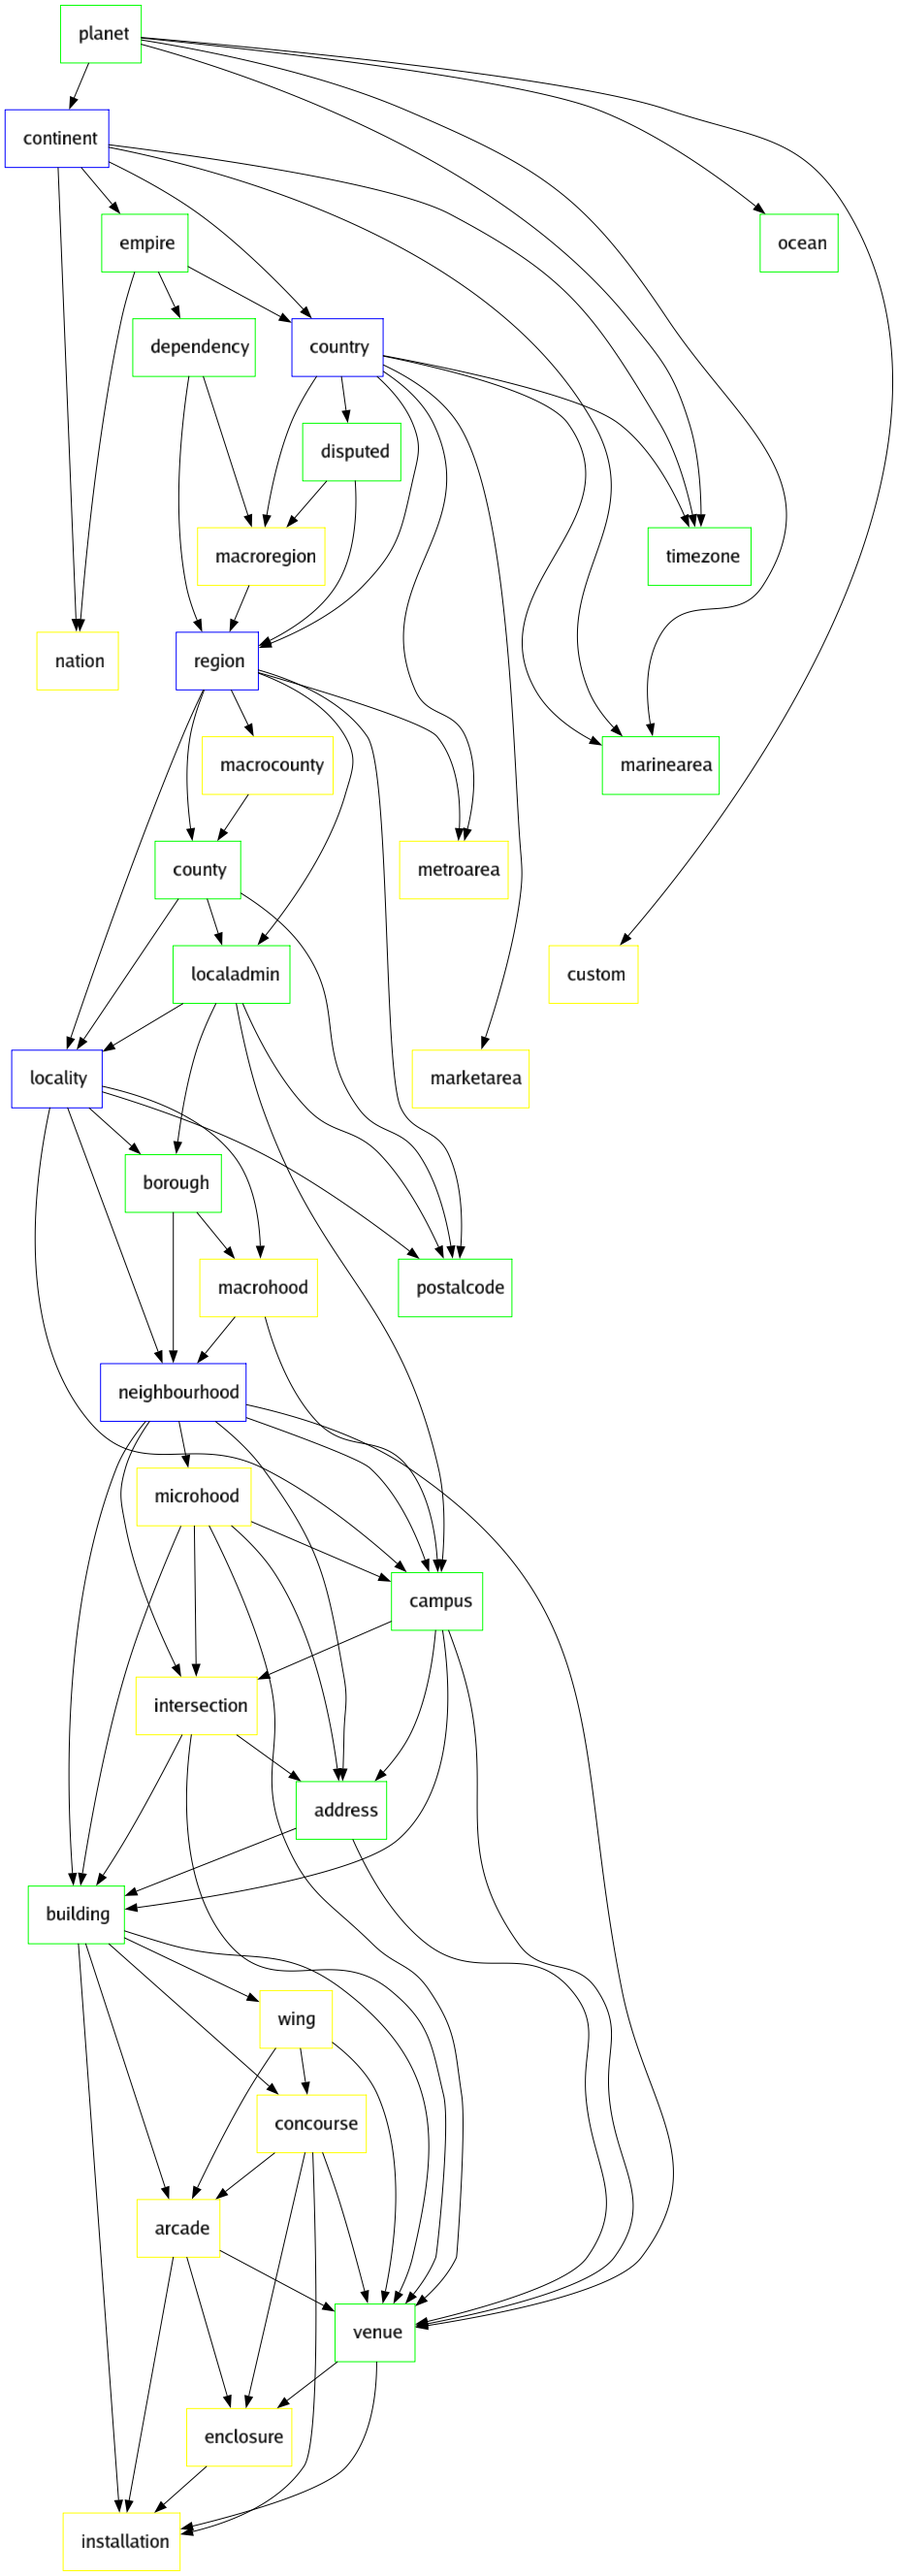
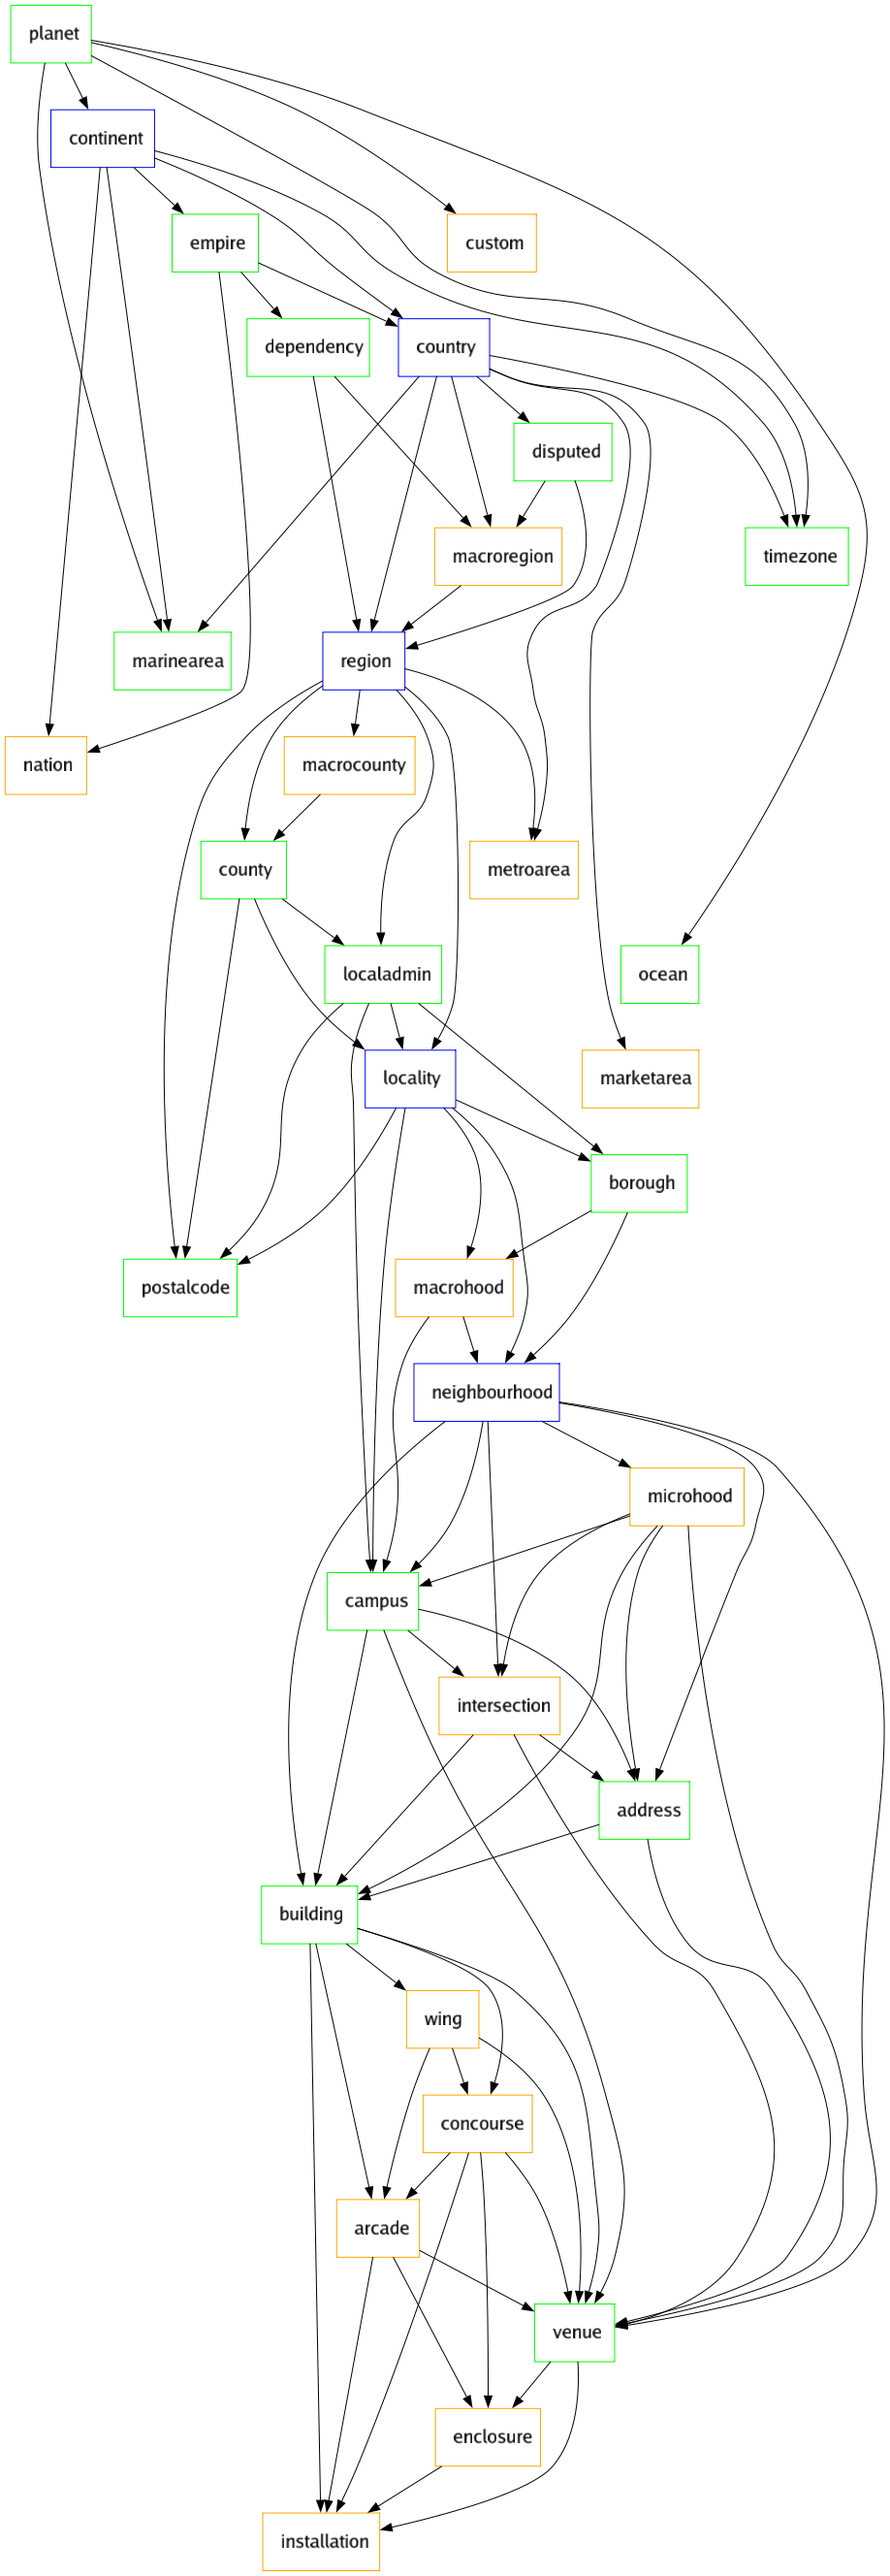
add _COLOUR constant strings

diff --git a/roles.go b/roles.go
@@ -12,6 +12,18 @@ const COMMON_OPTIONAL_ROLE string = "common_optional"
 // CUSTOM_ROLE defines the string label for the "custom" placetype role.
 const CUSTOM_ROLE string = "custom"
 
+// COMMON_COLOUR defines the Graphviz edge colour for the "common" placetype role.
+const COMMON_COLOUR string = "blue"
+
+// COMMON_OPTIONAL_COLOUR defines the Graphviz edge colour for the "common_optional" placetype role.
+const COMMON_OPTIONAL_COLOUR string = "green"
+
+// OPTIONAL_COLOUR defines the Graphviz edge colour for the "optional" placetype role.
+const OPTIONAL_COLOUR string = "orange"
+
+// CUSTOM_COLOUR defines the Graphviz edge colour for the "custom" placetype role.
+const CUSTOM_COLOUR string = "black"
+
 // AllRoles returns a list of all the known placetype roles.
 func AllRoles() []string {
 

diff --git a/specification.go b/specification.go
@@ -449,13 +449,13 @@ func (spec *WOFPlacetypeSpecification) GraphPlacetypes() (graph.Graph[string, *W
 
 		switch pt.Role {
 		case COMMON_ROLE:
-			color = "blue"
+			color = COMMON_COLOUR
 		case COMMON_OPTIONAL_ROLE:
-			color = "green"
+			color = COMMON_OPTIONAL_COLOUR
 		case OPTIONAL_ROLE:
-			color = "yellow"
+			color = OPTIONAL_COLOUR
 		case CUSTOM_ROLE:
-			color = "orange"
+			color = CUSTOM_COLOUR
 		}
 
 		if !isCorePlacetype(pt.Name) {
@@ -739,8 +739,12 @@ func (spec *WOFPlacetypeSpecification) indexRelationships() {
 	atomic.AddInt32(&spec.indexing_relationships, 1)
 
 	defer func() {
+
 		atomic.AddInt32(&spec.indexing_relationships, -1)
-		spec.indexing_channel <- true
+
+		go func() {
+			spec.indexing_channel <- true
+		}()
 	}()
 
 	spec.relationships = new(sync.Map)
